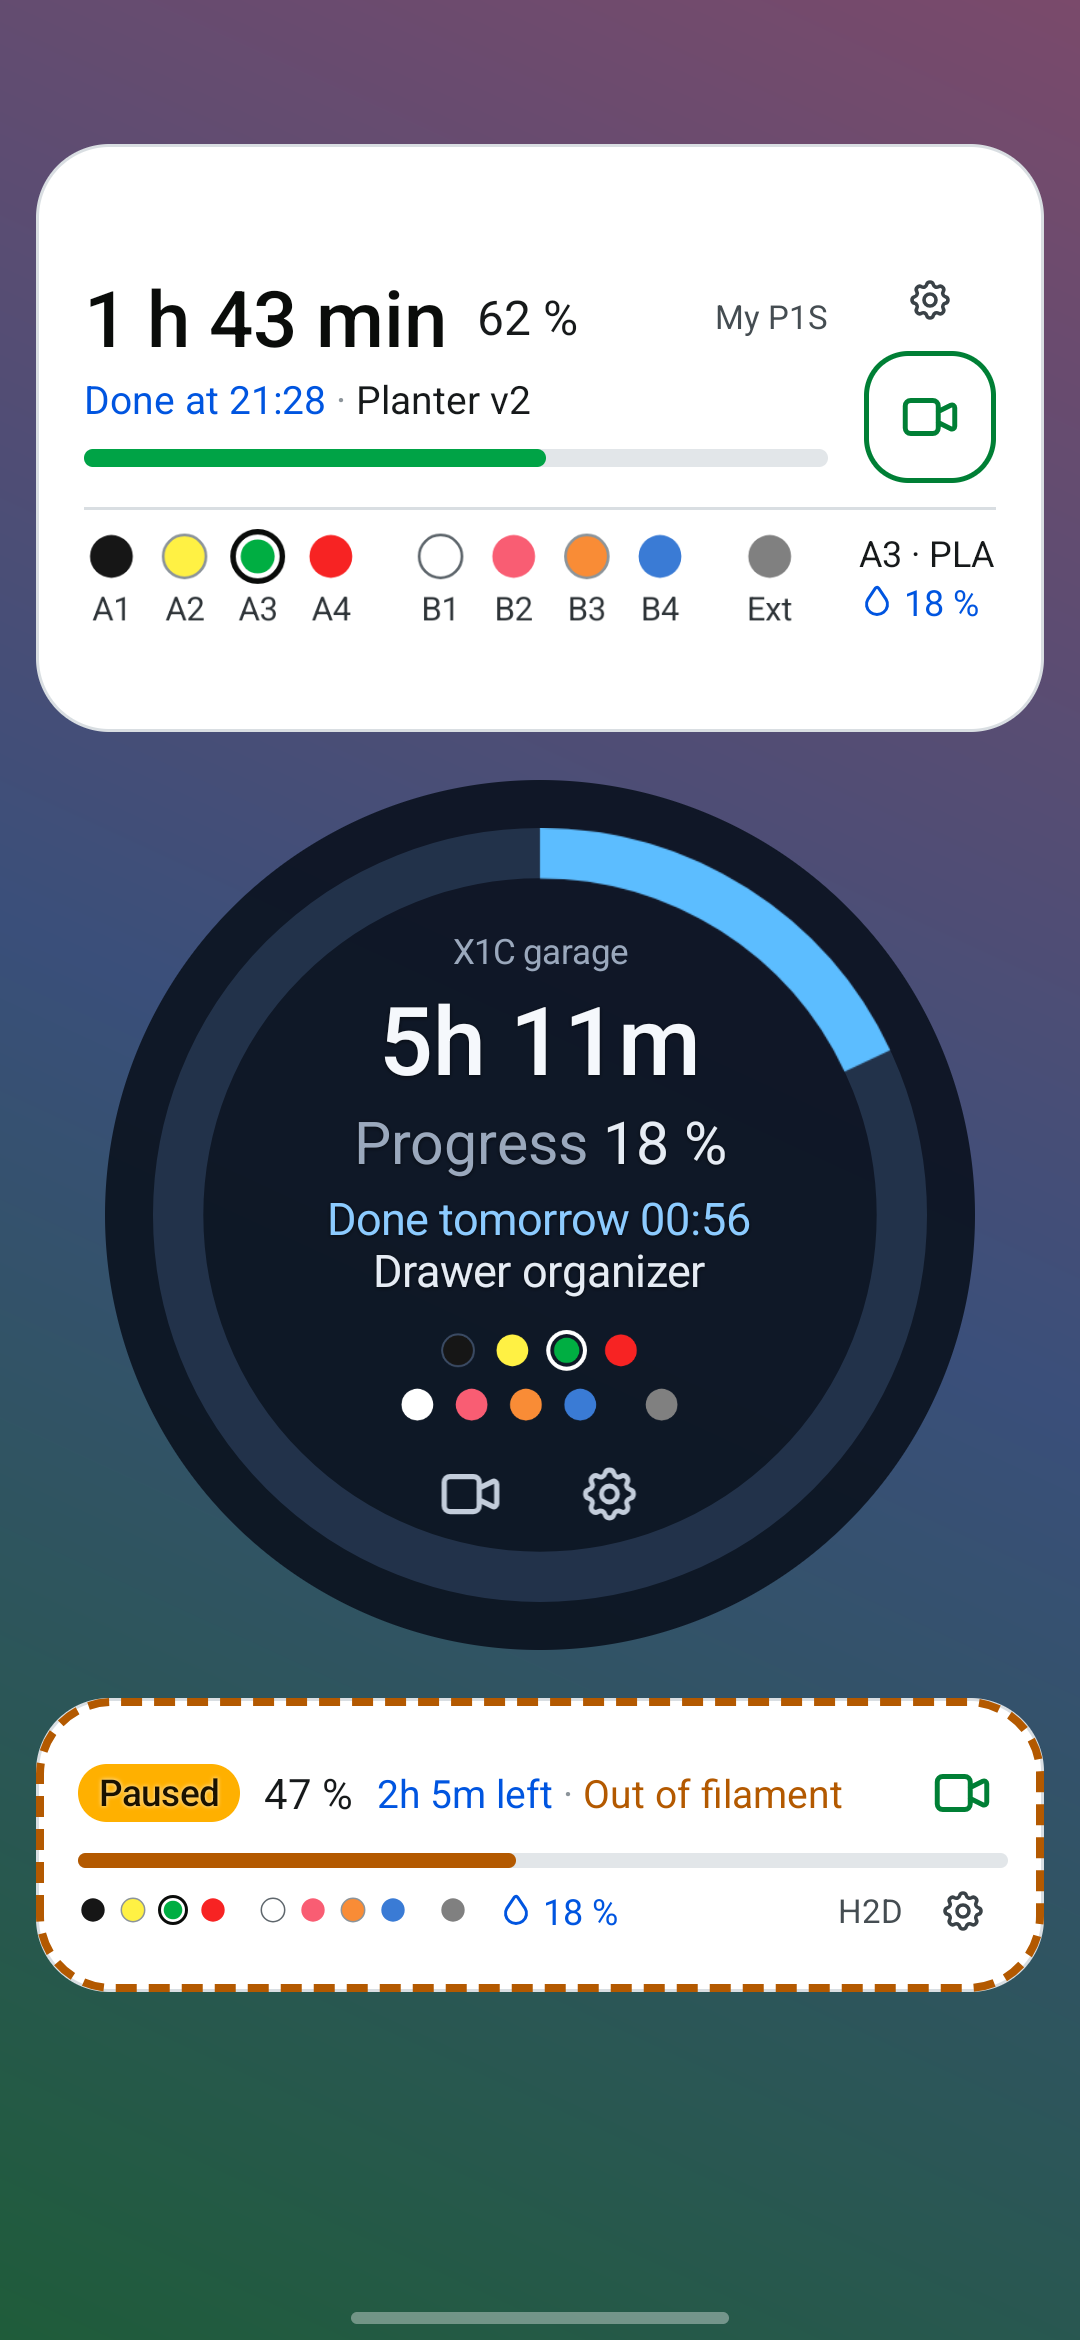
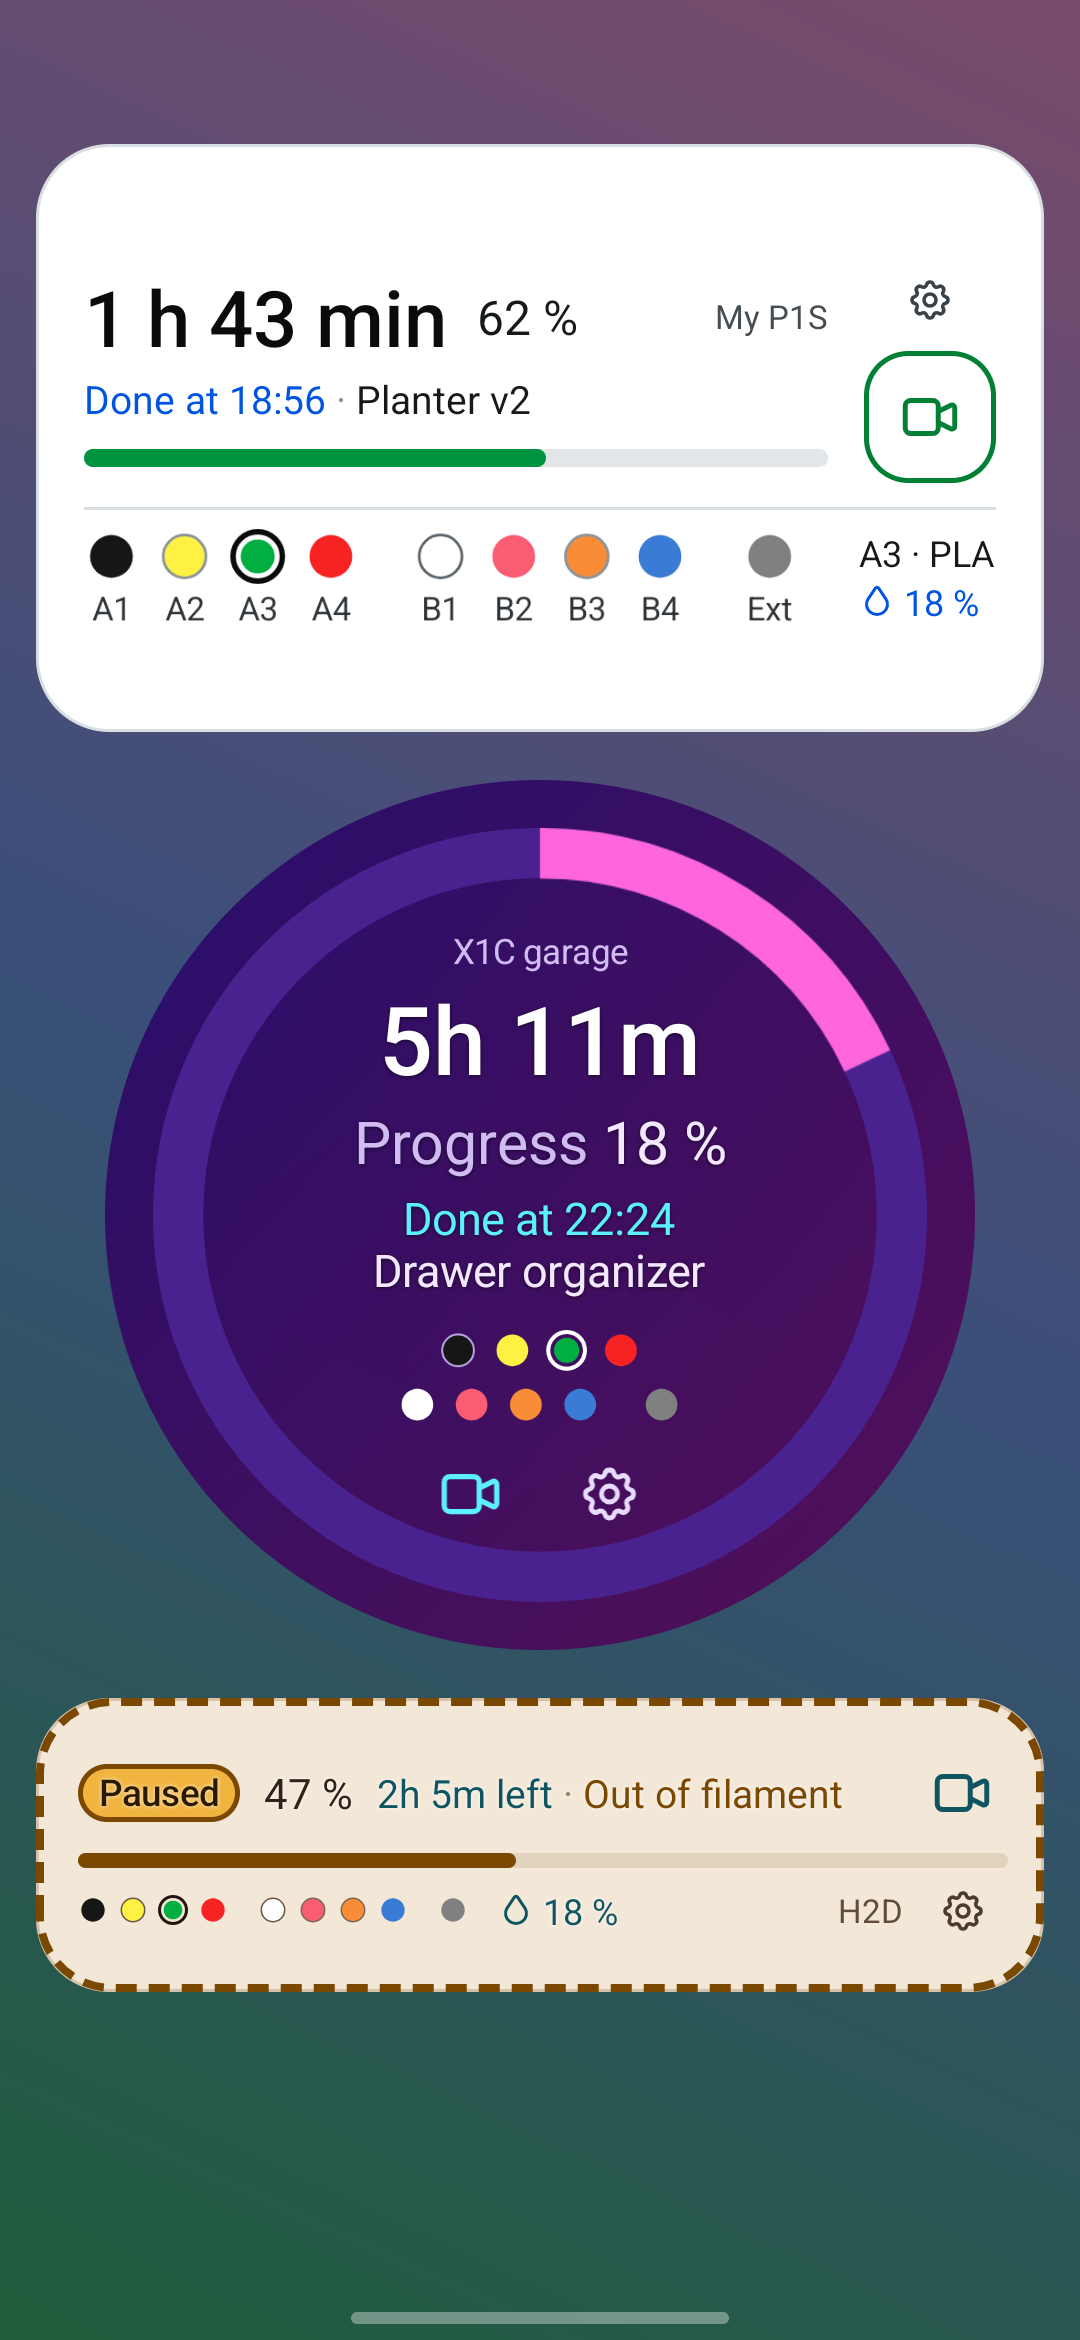
1.0.6: six themes incl. Material, new screenshots (five), texts

diff --git a/index.html b/index.html
@@ -37,9 +37,9 @@
       </div>
       <div class="shots">
         <img src="assets/screen-1.png" alt="Round widget with a progress ring, time left and filament dots, and a rectangle widget with AMS slots and humidity">
-        <img src="assets/screen-2.png" alt="Thin strip widget during bed leveling, an idle widget and a round widget after a finished print">
         <img src="assets/screen-3.png" alt="Multiple printers widget with six printers, and a smaller one with two">
-        <img src="assets/screen-4.png" alt="Light Daylight rectangle widget, dark blue Blueprint round widget and a paused thin strip in Daylight">
+        <img src="assets/screen-4.png" alt="Daylight rectangle widget, Neon round widget and a paused thin strip in Sand">
+        <img src="assets/screen-5.png" alt="Round widget and thin strip in the Material theme with the phone's own colours, and a finished print in Candy">
       </div>
     </div>
   </div>
@@ -56,7 +56,7 @@
         <div class="card"><h3><span class="dot" style="background:var(--cyan)"></span>AMS humidity</h3><p>See when your filament is getting damp.</p></div>
         <div class="card"><h3><span class="dot" style="background:#8a8a8a"></span>Idle</h3><p>Shows whether the last print finished or failed.</p></div>
         <div class="card"><h3><span class="dot" style="background:var(--green)"></span>Live updates</h3><p>Every few seconds while the printer heats up, calibrates, changes filament and in the last 10 minutes of a print. Every minute otherwise while your screen is on.</p></div>
-        <div class="card"><h3><span class="dot" style="background:var(--blue)"></span>Themes</h3><p>Classic, Daylight or Blueprint, chosen for each widget.</p></div>
+        <div class="card"><h3><span class="dot" style="background:var(--blue)"></span>Themes</h3><p>Six themes, chosen for each widget. Material takes your phone's colours and follows its dark mode.</p></div>
       </div>
     </div>
   </section>
@@ -64,7 +64,7 @@
   <section>
     <div class="wrap">
       <h2>Shapes and setup</h2>
-      <p class="sub">Pick a rectangle, a circle or a thin strip and resize it as you like. With several printers, one widget can show up to six. Pick one of three themes, make the background transparent or match it to your wallpaper.</p>
+      <p class="sub">Pick a rectangle, a circle or a thin strip and resize it as you like. With several printers, one widget can show up to six. Pick one of six themes and make the background as transparent as you like.</p>
       <ol class="steps">
         <li>Install the app and open it.</li>
         <li>Sign in with your Bambu Lab account, the same one you use in Bambu Handy. Google and Apple accounts work too.</li>
@@ -101,7 +101,7 @@
         </details>
         <details>
           <summary>Will there be more visual styles?</summary>
-          <p>There are three themes now: Classic, Daylight and Blueprint. More may come later.</p>
+          <p>There are six themes now: Classic, Daylight, Material, Sand, Neon and Candy. Material uses your phone's own colours and follows its dark mode.</p>
         </details>
         <details>
           <summary>Will there be an iOS version?</summary>
@@ -117,7 +117,7 @@
       <div class="avatar" aria-hidden="true">JL</div>
       <div>
         <h2>About</h2>
-        <p>I'm <b>Jan Legát</b>, a maker from the Czech Republic. I made this widget because I wanted to check on my prints without unlocking my phone.</p>
+        <p>I'm <b>Jan Legát</b>, a maker from the Czech Republic. I made this widget because I wanted to check on my prints without opening an app.</p>
         <p>It's a one-person project with no ads and no tracking. The app talks only to Bambu Lab and your printer.</p>
         <p>Questions or bugs? Email me at <a href="mailto:houmer.dev@gmail.com">houmer.dev@gmail.com</a>.</p>
       </div>

diff --git a/join.html b/join.html
@@ -31,7 +31,8 @@
         <a href="assets/screen-1.png"><img src="assets/screen-1.png" alt="Round widget with a progress ring, time left and filament dots, and a rectangle widget with AMS slots and humidity"></a>
         <a href="assets/screen-2.png"><img src="assets/screen-2.png" alt="Thin strip widget during bed leveling, an idle widget and a round widget after a finished print"></a>
         <a href="assets/screen-3.png"><img src="assets/screen-3.png" alt="Multiple printers widget with six printers"></a>
-        <a href="assets/screen-4.png"><img src="assets/screen-4.png" alt="Light Daylight rectangle widget, dark blue Blueprint round widget and a paused thin strip in Daylight"></a>
+        <a href="assets/screen-4.png"><img src="assets/screen-4.png" alt="Daylight rectangle widget, Neon round widget and a paused thin strip in Sand"></a>
+        <a href="assets/screen-5.png"><img src="assets/screen-5.png" alt="Round widget and thin strip in the Material theme with the phone's own colours, and a finished print in Candy"></a>
       </div>
       <p class="note shots-note">Tap a picture to enlarge it.</p>
 

diff --git a/style.css b/style.css
@@ -139,10 +139,10 @@ footer a { color: var(--dim); }
 }
 .join-shots { margin: 4px 0 24px; justify-content: flex-start; }
 .join-shots img { max-width: 220px; }
-.join-shots a { width: 23.5%; max-width: 190px; }
+.join-shots a { width: 18.6%; max-width: 190px; }
 .join-shots a img { width: 100%; max-width: none; display: block; }
 .shots-note { margin: -16px 0 20px; }
-@media (max-width: 760px) { .join-shots a { width: 47%; max-width: 220px; } }
+@media (max-width: 760px) { .join-shots a { width: 31%; max-width: 220px; } }
 
 /* FAQ: questions that open on tap */
 .faq { display: grid; gap: 10px; }
